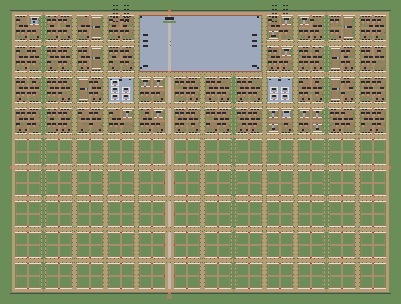
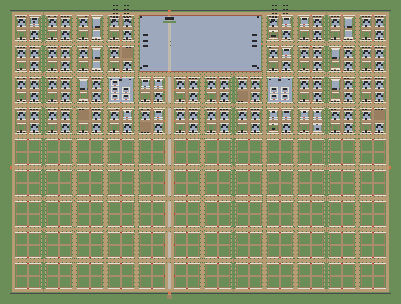
fix: 长安视觉第三轮通病根治——桥接水/巨型轿马/坊宅堆叠/像素过大（vision取证+复验全PASS）
- 桥：拱桥整块切片下45%画死水面→重切bridge_arch_stone_deck(96x58)+deck顶对齐北岸岸顶；环路草带缺口铺引道；柳锚与石灯cx-6同点叠放修复
- 轿马：车轿族96px与城门楼等高→全量0.5半缩（offset=-h*scale/2保底边锚）；停车马改朱雀路缘车道交替+横街带/宫门段禁停；cart_horse_a下架
- 坊宅：_fill_ward_generic重写为9x9四合院组群（围墙+北正房+东西厢房+南月洞门+方砖庭院+门前甬道），每坊2x2背靠背避十字街，四院轮换宅/宅/园/地标
- 视距：城内相机zoom 3→2整数比（开放世界不变）
- 方法论：范式v3新增§6七条通病纪律（比例/摆位/桥跨/间距对账/院落/视距/视觉证明流程）
- 探针同步：底边锚校验带scale、拱桥prop认deck切片名
- 验证：probe PASS / regress 121/121 / E2E 26 PASS 0 FAIL / vision四项复验全PASS

Changed region(s): [[0.0299, 0.2664, 0.9576, 0.4441], [0.6584, 0.0592, 0.9576, 0.2368], [0.0299, 0.0592, 0.3292, 0.2368]]

diff --git a/tools/import_sckr_changan.py b/tools/import_sckr_changan.py
@@ -143,6 +143,9 @@ PROPS = [
     ("pier_wood",        JN5, (384, 96, 528, 192)),   # 木码头平台
     ("moongate_white",   JN5, (672, 0, 768, 96)),     # 月洞门（白墙）
     ("bridge_arch_stone", JN5, (480, 192, 576, 288)),  # 石拱桥·侧视（护城河）
+    # 第三轮通病修缮：整块下45%是画死的水面，6格跨锚定必出"桥两端接水"——切桥面+拱身版（58px），
+    # 摆放时下方露真实水瓦、两端落在岸/路上（桥跨纪律：deck 顶=北岸岸顶）
+    ("bridge_arch_stone_deck", JN5, (480, 192, 576, 250)),  # 石拱桥·桥面裁剪版
     ("bench_wood",       JN5, (576, 96, 624, 144)),   # 条凳
     ("shrine_small",     JN5, (576, 384, 624, 480)),  # 神龛·灰瓦
     ("shrine_red",       JN5, (624, 384, 672, 480)),  # 神龛·红
